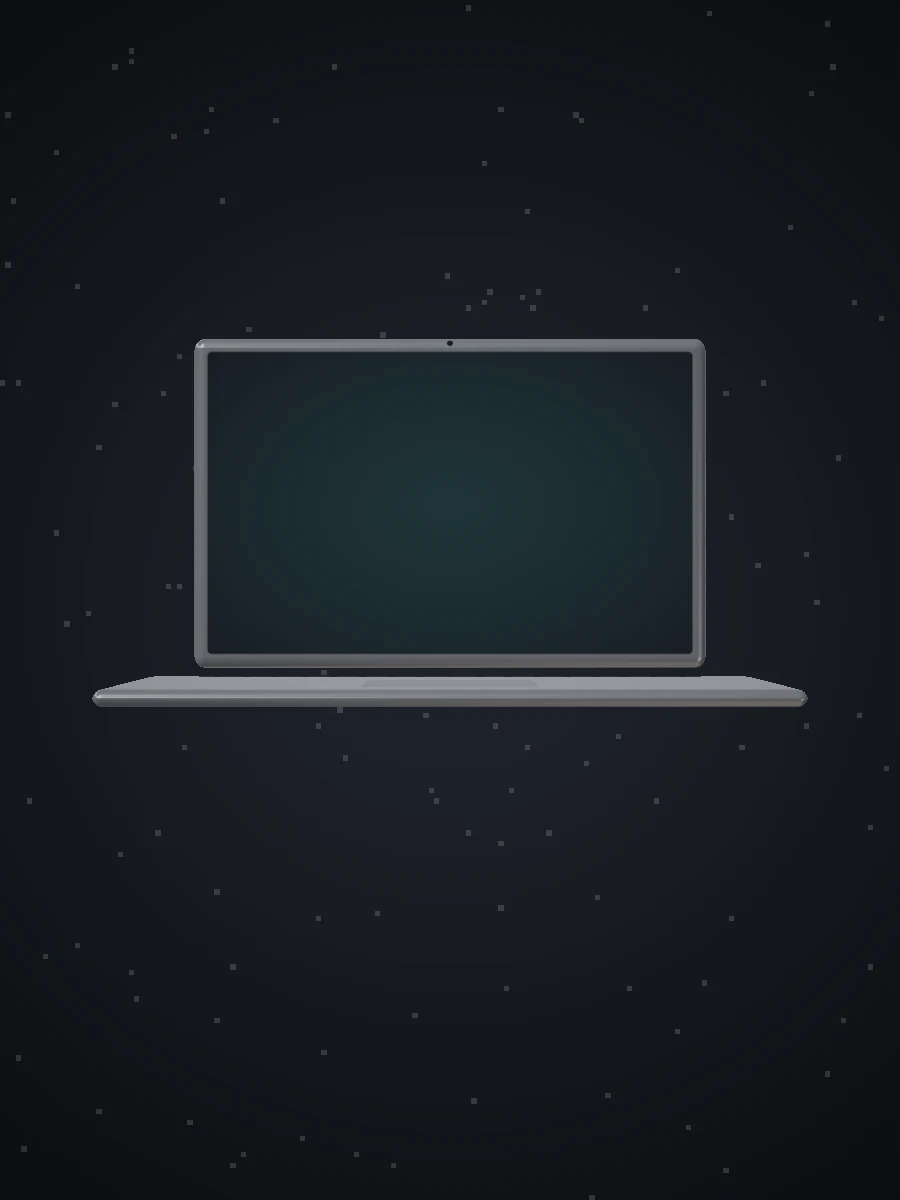
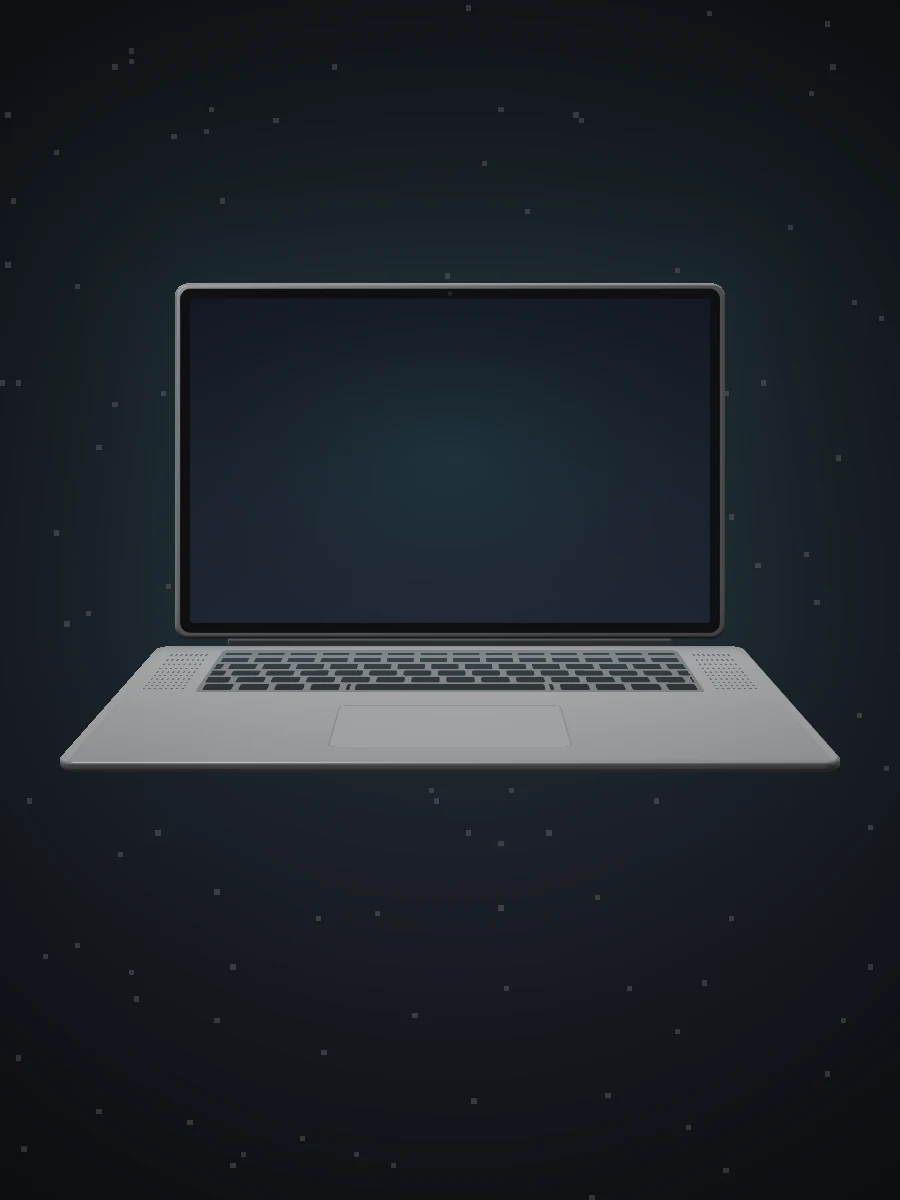
Captura de Vesta Eventos y portátil más realista
- Tarjeta de Vesta Eventos con la captura de ordenador de su web
- Portátil: tapa fina con bisel de cristal negro, bisagra, base en cuña
  abierta (se ve el teclado), teclas, altavoces, panel táctil, aluminio
  con luz de estudio, oclusión ambiental y resplandor de la pantalla
- Reflejo de cristal sobre la pantalla e imágenes fijas regeneradas

Claude-Session: https://claude.ai/code/session_01MXJGKFNDSyUTQJise4vcCX

Changed region(s): [[0.0622, 0.2158, 0.9333, 0.6475]]

diff --git a/js/metal.js b/js/metal.js
@@ -21,7 +21,7 @@
   // Tamaño del portátil y encuadre según la forma de la tarjeta (vertical u horizontal)
   function geom() {
     var r = card.getBoundingClientRect(), vert = forceVert != null ? forceVert : r.height > r.width;
-    return { vert: vert, k: vert ? 1.12 : 1.5, s: vert ? 1.4 : 1.0, y: vert ? 0.06 : 0.14, w: r.width, h: r.height };
+    return { vert: vert, k: vert ? 1.2 : 1.36, s: vert ? 1.4 : 1.0, y: vert ? 0.16 : 0.2, w: r.width, h: r.height };
   }
   // Coloca el logo (HTML nítido) exactamente sobre la pantalla del portátil, que al final queda de frente
   function placeScreen() {
@@ -77,12 +77,19 @@
     // coordenadas locales del portátil: gira suavemente y al final queda de frente
     "vec3 lapQ(vec3 p){ float a=1.0-smoothstep(0.62,0.97,uProg); float t=uTime*0.3;",
     " vec3 q=(p-vec3(0.0,uY,-0.5))/uK; q.xz*=rot(a*(-0.7+0.12*sin(t*0.4))); q.yz*=rot(a*0.25); return q; }",
+    // portátil realista: tapa fina con cantos redondeados, bisagra y base en cuña abierta a ~105°
+    "float sdSlab(vec3 p, vec2 b, float rc, float h, float re){ float d2=sdBox2(p.xy,b,rc); vec2 w=vec2(d2+re,abs(p.z)-h+re); return length(max(w,0.0))+min(max(w.x,w.y),0.0)-re; }",
+    "const float TILT=0.21;",
+    "vec3 baseQ(vec3 q){ vec3 r=q-vec3(0.0,-0.236,0.0); float c=cos(TILT), s=sin(TILT); return vec3(r.x, c*r.y+s*r.z, -s*r.y+c*r.z); }",
     "float sdLaptop(vec3 q){",
-    " float scr=sdRoundBox(q-vec3(0.0,0.18,0.0), vec3(0.62,0.4,0.018), 0.03);",
-    " float base=sdRoundBox(q-vec3(0.0,-0.235,0.38), vec3(0.66,0.016,0.4), 0.02);",
-    " return min(scr,base); }",
+    " float lid=sdSlab(q-vec3(0.0,0.18,0.0), vec2(0.62,0.4), 0.03, 0.011, 0.007);",
+    " vec3 b=baseQ(q); float th=mix(0.017,0.010,clamp(b.z/0.8,0.0,1.0));",
+    " float base=sdSlab(vec3(b.x,b.z-0.4,b.y+th), vec2(0.66,0.4), 0.035, th, 0.008);",
+    " vec3 hq=q-vec3(0.0,-0.228,-0.004); float hinge=max(length(hq.yz)-0.013, abs(hq.x)-0.5);",
+    " return min(min(lid,base),hinge); }",
     "float map(vec3 p){",
     " float t=uTime*0.3; float P=uProg;",
+    " if(P>=0.92) return sdLaptop(lapQ(p))*uK;",
     " float s1=1.0-smoothstep(0.22,0.5,P); float s3=smoothstep(0.6,0.92,P); float s2=(1.0-s1)*(1.0-s3);",
     " vec3 m=vec3(uMouse*vec2(1.25,0.85),0.55); float bulge=exp(-dot(p-m,p-m)*3.2)*0.16;",
     " vec3 q=p; q.xz*=rot(0.35*sin(t*0.5)+P*1.4); q.xy*=rot(0.12*sin(t*0.37));",
@@ -91,7 +98,7 @@
     " float n=snoise(q*1.5+vec3(0.0,t,0.0))*0.55+snoise(q*3.1-vec3(t*0.6))*0.2;",
     " vec3 st=mix(vec3(1.0), vec3(1.25,0.85,0.9), s2);",
     " float blob=length(q/st)*min(st.x,min(st.y,st.z))-rad-n*mix(0.1,0.2,s2)-bulge;",
-    " float lap=sdLaptop(lapQ(p))*uK-n*0.004*(1.0-smoothstep(0.85,1.0,P))-bulge*0.3*(1.0-s3);",
+    " float lap=sdLaptop(lapQ(p))*uK-n*0.004*(1.0-smoothstep(0.72,0.86,P))-bulge*0.3*(1.0-smoothstep(0.6,0.8,P));",
     " return mix(blob,lap,s3);",
     "}",
     "vec3 calcN(vec3 p){ vec2 e=vec2(0.0025,-0.0025);",
@@ -106,12 +113,23 @@
     " vec3 c=mix(vec3(0.0035,0.0045,0.008),vec3(0.0012,0.0016,0.003),length(uv)*0.9);",
     " vec2 g=floor(uv*vec2(160.0)); float s=hash13(vec3(g,7.0)); c+=step(0.996,s)*0.05*vec3(0.85,0.9,1.0);",
     " return c; }",
+    // estudio de fotografía de producto: ventana de luz grande arriba, tiras laterales y relleno cálido
+    "vec3 studio(vec3 r){",
+    " vec3 c=vec3(0.012,0.014,0.02)+vec3(0.02,0.024,0.032)*smoothstep(-0.4,0.6,r.y);",
+    " c+=vec3(0.95,0.97,1.0)*smoothstep(0.25,0.8,r.y)*smoothstep(1.05,0.35,abs(r.x+0.15))*0.85;",
+    " c+=vec3(0.8,0.85,0.95)*exp(-pow((r.x+0.82)*3.5,2.0))*smoothstep(-0.3,0.4,r.y)*0.55;",
+    " c+=vec3(1.0,0.86,0.7)*exp(-pow((r.x-0.85)*4.0,2.0))*smoothstep(-0.5,0.3,r.y)*0.22;",
+    " return c; }",
+    "float calcAO(vec3 p, vec3 n){ float o=0.0, w=1.0; for(int i=1;i<=4;i++){ float h=0.012*float(i*i); o+=(h-map(p+n*h))*w; w*=0.6; } return clamp(1.0-o*6.0,0.25,1.0); }",
     "void main(){",
     " vec2 uv=(gl_FragCoord.xy-0.5*uRes)/uRes.y*uS;",
     " vec3 ro=vec3(0.0,0.0,3.1); vec3 rd=normalize(vec3(uv,-1.55));",
     " vec3 col=sky(uv);",
     // halo suave detrás: el objeto iluminado en el vacío
     " col+=vec3(0.006,0.008,0.012)*exp(-dot(uv,uv)*3.0);",
+    // resplandor de la pantalla encendida en la oscuridad
+    " float onG=smoothstep(0.86,1.0,uProg); if(onG>0.0){ vec2 sc=vec2(0.0,(0.18*uK+uY)*1.55/3.6); vec2 hs=vec2(0.585,0.365)*uK*1.55/3.6;",
+    "  float gd=max(sdBox2(uv-sc,hs,0.02),0.0); col+=uAccent*0.016*onG*exp(-gd*7.0); }",
     " float b=dot(ro,rd); float c=dot(ro,ro)-4.4; float disc=b*b-c;",
     " if(disc>0.0){",
     "  float tt=max(0.0,-b-sqrt(disc)); float hit=-1.0;",
@@ -135,27 +153,57 @@
     // al final: portátil de aluminio plateado, pantalla de cristal y teclado
     "   float s3=smoothstep(0.6,0.92,uProg);",
     "   if(s3>0.01){",
-    "    vec3 q=lapQ(pos);",
-    "    vec3 silver=vec3(0.2,0.205,0.215)*(0.25+0.75*max(dot(N,L1),0.0))+env(R)*3.0*(0.6+0.4*fres)+pow(max(dot(R,L1),0.0),70.0)*vec3(1.0)*2.2+pow(max(dot(R,L1),0.0),10.0)*vec3(0.75,0.78,0.82)*0.3+pow(max(dot(R,L2),0.0),22.0)*vec3(0.85,0.87,0.9)*0.5;",
-    "    silver+=rim*vec3(0.75,0.8,0.88)*0.5;",
+    "    vec3 q=lapQ(pos); vec3 bq=baseQ(q);",
+    "    float ao=calcAO(pos,N); float on=smoothstep(0.86,1.0,uProg);",
+    // aluminio microgranallado: reflejo ancho y suave + destello fino, con grano muy leve
+    "    float grain=hash13(floor(pos*900.0))*0.06-0.03;",
+    "    vec3 Rr=normalize(mix(R,N,0.35));",
+    "    vec3 alb=vec3(0.56,0.57,0.59)*(1.0+grain);",
+    "    float dif=0.25+0.75*max(dot(N,L1),0.0);",
+    "    vec3 silver=alb*(studio(N)*0.32+dif*0.06)+studio(Rr)*(0.3+0.7*fres)*1.05+pow(max(dot(R,L1),0.0),90.0)*1.6;",
+    "    vec3 Lp=normalize(vec3(-1.4,1.9,1.8)-pos); vec3 Hh=normalize(Lp+V);",
+    "    silver+=alb*max(dot(N,Lp),0.0)*0.12+vec3(0.9,0.93,1.0)*(pow(max(dot(N,Hh),0.0),28.0)*0.35+pow(max(dot(N,Hh),0.0),300.0)*0.8);",
+    "    silver*=ao;",
     "    vec3 matc=silver;",
-    // pantalla (cara delantera)
-    "    float front=step(0.008,q.z)*step(-0.24,q.y);",
-    "    float scr=front*(1.0-smoothstep(-0.004,0.002,sdBox2(q.xy-vec2(0.0,0.18),vec2(0.585,0.365),0.012)));",
-    "    float on=smoothstep(0.86,1.0,uProg);",
-    "    vec3 glass=vec3(0.006,0.008,0.013)+env(R)*0.08*fres+pow(max(dot(R,L1),0.0),140.0)*0.25;",
-    "    glass+=uAccent*0.03*on*max(0.0,1.0-length((q.xy-vec2(0.0,0.18))*vec2(1.2,1.8)));",
-    "    matc=mix(matc,glass,scr);",
-    // cámara
-    "    float cam=front*(1.0-smoothstep(0.006,0.009,length(q.xy-vec2(0.0,0.565))));",
-    "    matc=mix(matc,vec3(0.01),cam);",
-    // teclado y panel táctil en la base
-    "    float top=step(-0.222,q.y)*step(q.y,-0.2)*step(q.z,0.79);",
-    "    float kb=top*step(abs(q.x),0.54)*step(0.06,q.z)*step(q.z,0.38);",
-    "    vec2 kg=fract(vec2(q.x*16.0,q.z*15.0)); float key=step(0.12,kg.x)*step(kg.x,0.88)*step(0.14,kg.y)*step(kg.y,0.86);",
-    "    matc=mix(matc, mix(vec3(0.015),vec3(0.03)+env(R)*0.15,key), kb);",
-    "    float tp=top*(1.0-smoothstep(-0.002,0.002,sdBox2(vec2(q.x,q.z-0.6),vec2(0.17,0.11),0.02)));",
-    "    matc=mix(matc, silver*0.82, tp);",
+    // tapa: cristal negro de borde a borde con la pantalla encendida dentro
+    "    vec2 lp=q.xy-vec2(0.0,0.18);",
+    "    float lidF=step(0.006,q.z)*step(-0.215,q.y);",
+    "    float bez=lidF*(1.0-smoothstep(-0.002,0.001,sdBox2(lp,vec2(0.608,0.388),0.024)));",
+    "    float scr=lidF*(1.0-smoothstep(-0.002,0.0015,sdBox2(lp,vec2(0.585,0.365),0.006)));",
+    "    vec3 glassR=studio(R)*(0.004+0.3*fres)+pow(max(dot(R,L1),0.0),160.0)*0.4;",
+    "    vec3 bezel=vec3(0.0015,0.0017,0.0022)+glassR;",
+    "    float vg=1.0-length(lp*vec2(1.25,1.9));",
+    "    vec3 disp=mix(vec3(0.002,0.003,0.006),vec3(0.004,0.007,0.016),on)+uAccent*0.022*on*max(0.0,vg)*max(0.0,vg)+glassR*0.5;",
+    "    disp+=vec3(0.006,0.008,0.014)*on*smoothstep(0.4,-0.4,lp.y);",
+    "    matc=mix(matc,bezel,bez); matc=mix(matc,disp,scr);",
+    "    float cam=lidF*(1.0-smoothstep(0.004,0.0065,length(lp-vec2(0.0,0.376))));",
+    "    matc=mix(matc,vec3(0.012,0.014,0.02)+glassR*2.0,cam);",
+    // bisagra oscura
+    "    float hz=step(length(vec2(q.y+0.228,q.z+0.004)),0.0145)*step(q.y,-0.214)*step(abs(q.x),0.5);",
+    // base: teclado, altavoces y panel táctil sobre la cara superior
+    "    float topF=step(-0.004,bq.y)*step(bq.y,0.008)*step(-0.01,bq.z)*step(abs(bq.x),0.64);",
+    "    float u=bq.x, v=bq.z;",
+    "    float well=topF*(1.0-smoothstep(-0.002,0.001,sdBox2(vec2(u,v-0.215),vec2(0.505,0.168),0.012)));",
+    "    float rh=0.0535; float row=floor((v-0.052)/rh); float kw=1.0/14.0;",
+    "    float sh=row==1.0?0.0:row==2.0?0.35:row==3.0?0.55:row==4.0?0.8:0.0;",
+    "    float cx=u+0.5-sh*kw; vec2 cell=vec2(fract(cx/kw)-0.5, fract((v-0.052)/rh)-0.5);",
+    "    float kd=sdBox2(cell*vec2(kw,rh),vec2(kw*0.5-0.0065,rh*(row==0.0?0.3:0.5)-0.0065),0.005);",
+    "    float space=row==5.0?(1.0-smoothstep(-0.001,0.001,sdBox2(vec2(u,(fract((v-0.052)/rh)-0.5)*rh),vec2(0.19,rh*0.5-0.0065),0.005))):0.0;",
+    "    float key=(row==5.0&&abs(u)<0.2)?space:(1.0-smoothstep(-0.0012,0.0008,kd));",
+    "    key*=step(0.0,row)*step(row,5.0)*step(abs(u),0.497);",
+    "    vec3 cap=vec3(0.006,0.0065,0.008)+studio(Rr)*0.018+pow(max(dot(R,L1),0.0),40.0)*0.03;",
+    "    matc*=mix(1.0,mix(1.08,0.78,clamp(v/0.8,0.0,1.0)),topF);",
+    "    matc=mix(matc, silver*0.45, well);",
+    "    matc=mix(matc, cap*ao, well*key);",
+    "    float spk=topF*step(0.53,abs(u))*step(abs(u),0.615)*step(0.06,v)*step(v,0.37);",
+    "    vec2 hg=fract(vec2(u,v)/0.011)-0.5; float hole=1.0-smoothstep(0.17,0.24,length(hg));",
+    "    matc=mix(matc, silver*0.25, spk*hole);",
+    "    float tpd=sdBox2(vec2(u,v-0.6),vec2(0.21,0.125),0.016);",
+    "    float tp=topF*(1.0-smoothstep(-0.001,0.001,tpd)); float tpe=topF*(1.0-smoothstep(0.0,0.0025,abs(tpd)));",
+    "    matc=mix(matc, silver*0.9+studio(R)*0.05, tp); matc=mix(matc, silver*0.55, tpe);",
+    // luz de la pantalla sobre el teclado
+    "    matc+=topF*on*(uAccent*0.05+vec3(0.02,0.025,0.035))*exp(-max(v,0.0)*5.0);",
+    "    matc=mix(matc, vec3(0.02,0.021,0.024)+studio(R)*0.12, hz);",
     "    m=mix(m,matc,s3);",
     "   }",
     "   col=m;",

diff --git a/css/styles.css b/css/styles.css
@@ -246,6 +246,7 @@ html.is-open [data-only="pre"], html:not(.is-open) [data-only="open"] { display:
 .slide.is-static .slide__canvas { display: none; }
 /* Pantalla del portátil: logo real en HTML, se enciende al final del scroll */
 .slide__screen { position: absolute; z-index: 2; display: flex; flex-direction: column; align-items: center; justify-content: center; gap: .7em; opacity: 0; pointer-events: none; text-align: center; }
+.slide__screen::after { content: ""; position: absolute; inset: 0; background: linear-gradient(118deg, rgba(255,255,255,.055) 0%, rgba(255,255,255,.018) 38%, transparent 38.2%); pointer-events: none; }
 .slide__screen svg { width: 3.6em; height: 3.6em; filter: drop-shadow(0 0 1.2em var(--accent-soft)); }
 .slide__screen span { font-family: var(--font-display); font-weight: 700; font-size: 1.35em; letter-spacing: -.01em; color: var(--text); white-space: nowrap; }
 .slide__screen em { font-style: normal; font-weight: 600; color: var(--muted); }

diff --git a/index.html b/index.html
@@ -268,11 +268,7 @@
         <div class="projects">
           <article class="project project--real" data-reveal>
             <div class="project__media">
-              <!-- TODO: sustituir por la captura actual de vesta-eventos.pages.dev (ordenador) en assets/proyectos/vesta-eventos.webp -->
-              <div class="project__pending" id="vesta-pending">
-                <span>Vesta Eventos</span>
-                <small>TODO · Falta la captura actual de la web</small>
-              </div>
+              <img src="assets/proyectos/vesta-eventos.webp" alt="Portada de la web de Vesta Eventos en ordenador: «El equipo que te falta, cuando lo necesitas.»" width="1800" height="1125" loading="lazy" decoding="async">
             </div>
             <div class="project__body">
               <span class="tag tag--real">Proyecto real</span>

diff --git a/LANZAMIENTO.md b/LANZAMIENTO.md
@@ -32,7 +32,7 @@ Casi todo se cambia en **`js/config.js`**: no hace falta tocar el resto del cód
       (está marcada con TODO en `index.html`).
 
 ## 5. Contenido pendiente
-- [ ] Captura actual de **vesta-eventos.pages.dev** (vista de ordenador) en `assets/proyectos/vesta-eventos.webp`
+- [x] Captura de ordenador de Vesta Eventos en `assets/proyectos/vesta-eventos.webp` (sacada de su repositorio; si la web publicada cambia, repetirla)
       y sustituir el bloque `project__pending` de `index.html` por la imagen (hay un TODO).
 - [ ] Elegir el color de acento definitivo: `ACENTO: "celeste"` o `"dorado"`.
       Si es dorado, cambiar también el color del icono en `assets/favicon.svg` (`#22D3EE` → `#E8C27A`).
